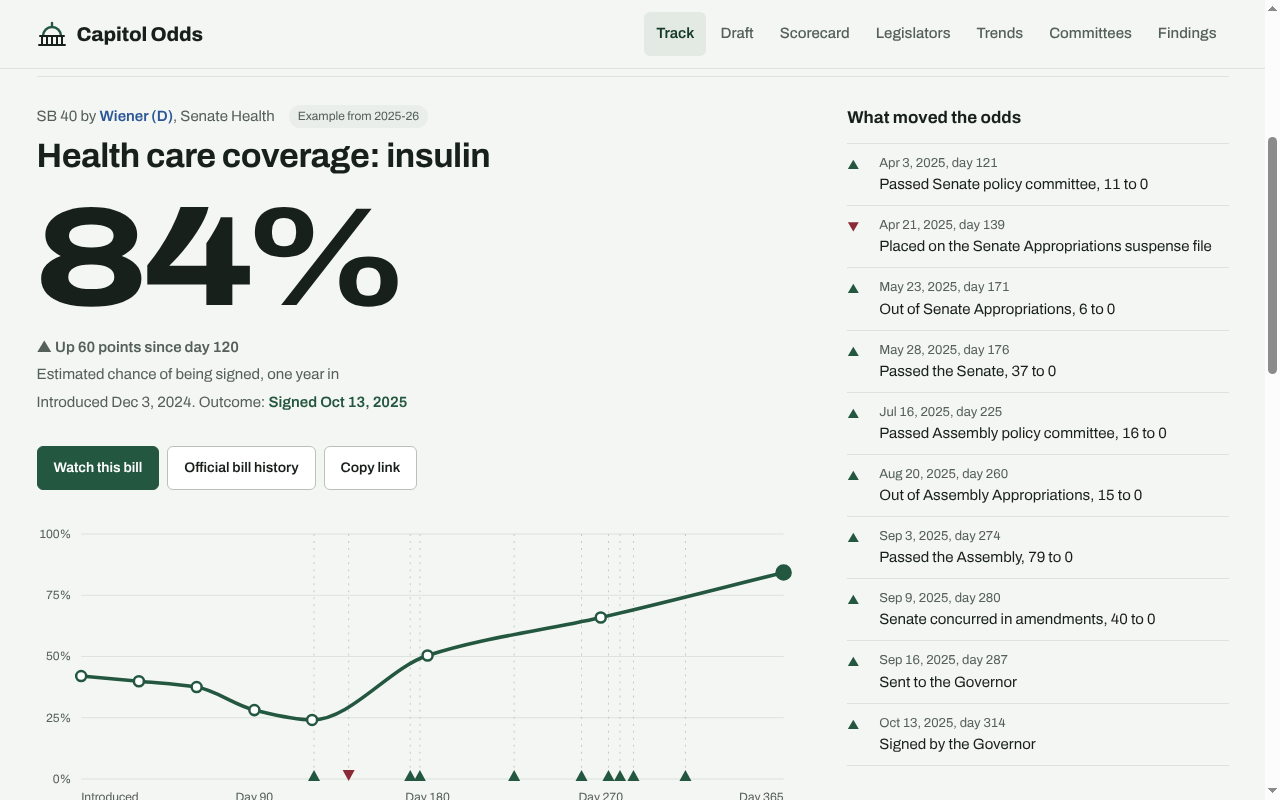
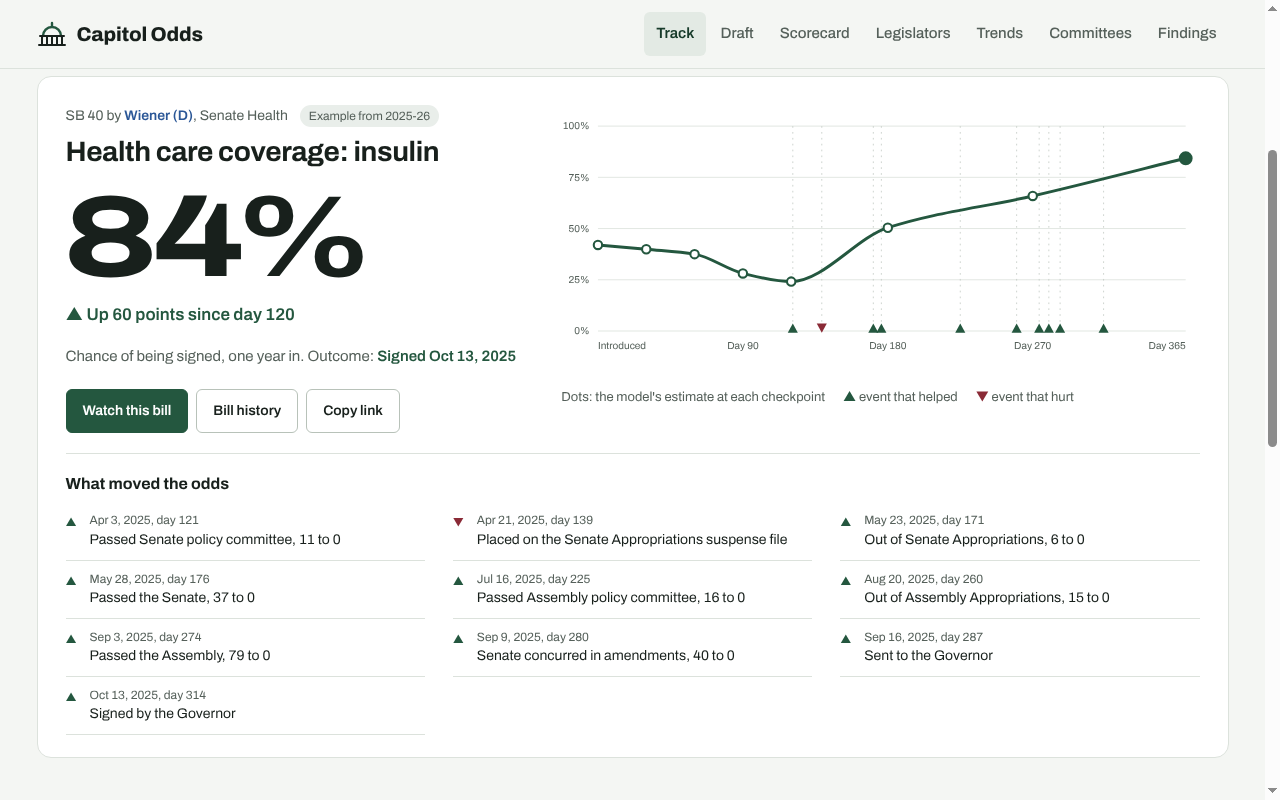
Streamline the home page
Search sits in a compact hero with the three model facts on one line. The featured bill is one
card: odds and actions beside the chart, and what moved the odds as a three-column grid under
both (five on a phone, with Show all). The watchlist drops its empty group row, the accuracy
strip is one compact card, and the drafting link moves up into the hero. On a phone the top
nav scrolls in one row. Asset tag bumped so browsers fetch the new stylesheet.

diff --git a/site/index.html b/site/index.html
@@ -9,7 +9,7 @@
 <link rel="preconnect" href="https://fonts.googleapis.com">
 <link rel="preconnect" href="https://fonts.gstatic.com" crossorigin>
 <link rel="stylesheet" href="https://fonts.googleapis.com/css2?family=Archivo:wdth,wght@62..125,100..900&display=swap">
-<link rel="stylesheet" href="common.css?v=2026-10-29b">
+<link rel="stylesheet" href="common.css?v=2026-10-29c">
 <style>
 /* Home page: tracking view (default) and drafting view */
 .odds{font-weight:800;font-stretch:125%;letter-spacing:-.03em;line-height:.88;color:var(--ink);font-variant-numeric:tabular-nums}
@@ -17,16 +17,15 @@
 .mv{font-weight:600;font-size:17px}
 
 /* Intro */
-.intro{display:flex;flex-wrap:wrap;gap:24px 56px;align-items:flex-end;padding:44px 0 32px}
-.intro h1{font-size:clamp(34px,5vw,54px);line-height:1.02;letter-spacing:-.03em;margin:0;max-width:14ch;font-stretch:108%}
-.intro .copy{flex:1 1 420px;min-width:0}
-.intro .copy p{margin:14px 0 0;color:var(--muted);font-size:18px;max-width:52ch}
-.facts{flex:1 1 380px;display:grid;grid-template-columns:repeat(3,minmax(0,1fr));gap:20px;margin:0;padding:0;list-style:none}
-.facts li{border-top:1px solid var(--line-strong);padding-top:12px;font-size:14px;color:var(--muted);line-height:1.45}
-.facts b{display:block;color:var(--ink);font-size:20px;white-space:nowrap;font-stretch:112%;letter-spacing:-.01em;margin-bottom:4px;font-weight:700}
-
+.hero{padding:40px 0 8px}
+.hero-top{display:flex;flex-wrap:wrap;align-items:flex-end;justify-content:space-between;gap:16px 32px}
+.hero h1{font-size:clamp(32px,4.2vw,50px);line-height:1.04;letter-spacing:-.03em;margin:0;font-stretch:106%}
+.hero-top p{margin:10px 0 0;color:var(--muted);font-size:17px;max-width:60ch}
+.facts{display:flex;flex-wrap:wrap;gap:6px 22px;margin:14px 0 0;padding:0;list-style:none;font-size:14px;color:var(--muted)}
+.facts b{color:var(--ink);font-weight:700}
+.facts .st{flex-basis:100%;color:var(--subtle);font-size:13px}
 /* Search */
-.search{position:relative;margin:8px 0 12px}
+.search{position:relative;margin:24px 0 0}
 .search .box{display:flex;align-items:center;gap:12px;background:var(--panel);border:1px solid var(--line-strong);border-radius:var(--r-md);padding:0 18px;min-height:60px}
 .search .box:focus-within{box-shadow:var(--focus)}
 .search input{flex:1;min-width:0;border:0;background:transparent;font-size:18px;padding:16px 0;min-height:58px}
@@ -42,19 +41,18 @@
 .results .au{font-size:13px;color:var(--muted);display:block}
 .results .pp{font-weight:700;font-stretch:115%;font-size:18px}
 .results .oc{font-size:13px;min-width:84px;text-align:right}
-.status{font-size:14px;color:var(--subtle);margin:0 0 28px}
 
 /* Featured bill */
-.featured{display:grid;grid-template-columns:minmax(0,8fr) minmax(0,4fr);gap:32px 48px;padding:28px 0 8px;border-top:1px solid var(--line)}
-.fhead{display:flex;flex-wrap:wrap;gap:8px 14px;align-items:center;font-size:15px;color:var(--muted)}
+.featured{margin-top:32px;background:var(--panel);border:1px solid var(--line);border-radius:var(--r-lg);padding:28px 28px 8px}
+.fgrid{display:grid;grid-template-columns:minmax(0,5fr) minmax(0,7fr);gap:24px 40px;align-items:start}
+.fhead{display:flex;flex-wrap:wrap;gap:6px 12px;align-items:center;font-size:14px;color:var(--muted)}
 .fhead .tag{margin:0}
-.featured h2{font-size:clamp(24px,3vw,34px);line-height:1.15;margin:8px 0 0;letter-spacing:-.015em;font-weight:700}
-.quote{display:flex;flex-wrap:wrap;align-items:flex-end;gap:12px 28px;margin-top:22px}
-.quote .odds{font-size:clamp(84px,13vw,140px)}
-.quote .sub{padding-bottom:10px}
-.quote .sub p{margin:4px 0 0;color:var(--muted);font-size:15px}
-.factions{display:flex;flex-wrap:wrap;gap:8px;margin-top:22px}
-.chart{position:relative;margin-top:26px}
+.featured h2{font-size:clamp(22px,2.4vw,28px);line-height:1.2;margin:8px 0 0;letter-spacing:-.015em;font-weight:700}
+.quote .odds{font-size:clamp(80px,9vw,124px);margin-top:18px}
+.quote .sub p{margin:6px 0 0;color:var(--muted);font-size:15px}
+.quote .mv{margin-top:14px}
+.factions{display:flex;flex-wrap:wrap;gap:8px;margin-top:20px}
+.chart{position:relative;margin-top:6px}
 .chart svg{display:block;width:100%;height:auto;overflow:visible}
 .chart .pt{cursor:pointer;outline:none}
 .chart .pt:focus-visible circle.ring{stroke:var(--ink);stroke-width:2.5}
@@ -63,23 +61,24 @@
 .tip{position:absolute;pointer-events:none;background:var(--ink);color:var(--bg);font-size:13px;line-height:1.35;padding:7px 10px;border-radius:6px;white-space:nowrap;transform:translate(-50%,calc(-100% - 12px));font-weight:500;z-index:5}
 .tip b{font-weight:700}
 .legend{display:flex;flex-wrap:wrap;gap:6px 18px;font-size:13px;color:var(--muted);margin-top:8px}
-.timeline h3,.panel-h{font-size:17px;margin:0 0 12px;font-weight:700}
-.timeline ol{list-style:none;margin:0;padding:0;position:relative}
-.timeline li{display:grid;grid-template-columns:22px minmax(0,1fr);gap:10px;padding:10px 0;border-top:1px solid var(--line);font-size:15px;line-height:1.4}
-.timeline li:last-child{border-bottom:1px solid var(--line)}
-.timeline .ar{font-size:12px;padding-top:3px}
-.timeline .dt{display:block;font-size:13px;color:var(--muted);margin-bottom:2px}
-.timeline .empty{color:var(--muted);font-size:15px}
+.timeline{margin-top:20px;border-top:1px solid var(--line);padding:18px 0 14px}
+.timeline h3{font-size:16px;margin:0 0 6px;font-weight:700}
+.timeline ol{list-style:none;margin:0;padding:0;display:grid;grid-template-columns:repeat(3,minmax(0,1fr));gap:0 28px}
+.timeline li{display:grid;grid-template-columns:16px minmax(0,1fr);gap:8px;padding:10px 0;border-bottom:1px solid var(--line);font-size:14px;line-height:1.35}
+.timeline .ar{font-size:11px;padding-top:3px}
+.timeline .dt{display:block;font-size:12px;color:var(--muted);margin-bottom:2px}
+.timeline .more-ev{display:none;margin-top:10px}
+.timeline .empty{color:var(--muted);font-size:14px;margin:4px 0 0}
 
 /* Watchlist */
-.block{margin-top:64px}
+.block{margin-top:48px}
 .block-h{display:flex;flex-wrap:wrap;align-items:baseline;justify-content:space-between;gap:8px 16px;margin-bottom:14px}
 .block-h h2{font-size:26px;margin:0;font-weight:700}
 .block-h p{margin:0;color:var(--muted);font-size:15px}
 .wl{position:relative;overflow-x:auto;background:var(--panel);border-radius:var(--r-lg)}
 .wl table{min-width:820px}
 .wl th{background:var(--panel);padding:14px 16px}
-.wl td{padding:14px 16px;vertical-align:middle}
+.wl td{padding:10px 16px;vertical-align:middle}
 .wl tr.grp td{font-size:13px;color:var(--muted);padding:18px 16px 8px;border-bottom:1px solid var(--line-strong);background:var(--panel)}
 .wl tr.grp:hover{background:none}
 .wl tr.sel{background:var(--raised)}
@@ -91,9 +90,12 @@
 .wl .rm:hover{color:var(--ink)}
 
 /* Accuracy */
-.acc{display:grid;grid-template-columns:minmax(0,4fr) minmax(0,7fr);gap:24px 56px;align-items:end}
-.acc p{color:var(--muted);font-size:15px;margin:10px 0 0;max-width:46ch}
-.accbars{display:grid;grid-template-columns:repeat(8,minmax(0,1fr));gap:8px;align-items:end;height:190px}
+.acc{display:grid;grid-template-columns:minmax(0,5fr) minmax(0,7fr);gap:24px 48px;align-items:end;background:var(--panel);border:1px solid var(--line);border-radius:var(--r-lg);padding:24px 28px}
+.acc h2{font-size:22px;margin:0;font-weight:700}
+.acc p{color:var(--muted);font-size:14px;margin:8px 0 0;max-width:52ch}
+.acc details.more{margin-top:12px;border:0;padding:0}
+.acc details.more summary{min-height:36px;font-size:14px}
+.accbars{display:grid;grid-template-columns:repeat(8,minmax(0,1fr));gap:6px;align-items:end;height:150px}
 .accbars div{display:flex;flex-direction:column;justify-content:flex-end;gap:6px;height:100%;text-align:center}
 .accbars b{font-size:15px;font-stretch:112%}
 .accbars i{display:block;border-radius:4px 4px 0 0;background:#B8C2B9}
@@ -205,17 +207,21 @@ details.more summary{cursor:pointer;color:var(--ink);font-weight:600;min-height:
 @media (max-width:640px){.pop{left:16px!important;right:16px;width:auto;top:auto!important;bottom:16px;max-height:70vh}.pop ul{max-height:50vh}}
 
 @media (max-width:960px){
-  .featured,.dgrid,.moves,.acc{grid-template-columns:minmax(0,1fr)}
+  .fgrid,.dgrid,.moves,.acc{grid-template-columns:minmax(0,1fr)}
+  .timeline ol{grid-template-columns:repeat(2,minmax(0,1fr))}
   .res{position:static}
 }
 @media (max-width:640px){
+  .featured{padding:20px 16px 4px}
+  .acc{padding:20px 16px}
+  .timeline ol{grid-template-columns:minmax(0,1fr)}
+  .timeline ol:not(.all) li:nth-child(n+6){display:none}
+  .timeline .more-ev{display:inline-flex}
   .sheet .row{grid-template-columns:minmax(0,1fr)}
   .pkb .ph{display:none}
   .sheet .lab{padding:14px 16px 0;font-size:14px}
   .sheet .val{padding:8px 16px 14px}
   .dgest{padding:16px}
-  .facts{grid-template-columns:1fr;gap:10px}
-  .intro{padding-top:28px}
   .results button{grid-template-columns:64px minmax(0,1fr) auto;padding:12px 14px}
   .results .oc{display:none}
   .chk{grid-template-columns:1fr}
@@ -231,48 +237,45 @@ details.more summary{cursor:pointer;color:var(--ink);font-weight:600;min-height:
 
 <!-- Track a bill: the home view -->
 <div class="view" id="track" hidden>
-  <div class="intro">
-    <div class="copy">
-      <h1>Know the odds before the vote.</h1>
-      <p>A statistical forecast of which California bills will become law, built for the people who write, track and influence legislation.</p>
+  <div class="hero">
+    <div class="hero-top">
+      <div>
+        <h1>Know the odds before the vote.</h1>
+        <p>Forecasts of which California bills become law, for the people who write, track and influence them.</p>
+      </div>
+      <button class="btn" id="m-draft" type="button" aria-selected="false">Drafting a bill? Estimate it</button>
+    </div>
+    <div class="search" role="search">
+      <label for="tq" class="sr">Search bills</label>
+      <div class="box">
+        <svg width="20" height="20" viewBox="0 0 20 20" aria-hidden="true"><circle cx="9" cy="9" r="6.5" fill="none" stroke="#55605A" stroke-width="2"></circle><path d="M14 14l4 4" stroke="#55605A" stroke-width="2" stroke-linecap="round"></path></svg>
+        <input id="tq" type="search" placeholder="Search by bill number, author or subject…" autocomplete="off" aria-controls="tres" aria-describedby="tnote">
+      </div>
+      <div id="tres" class="results" hidden></div>
     </div>
     <ul class="facts" aria-label="About the model">
-      <li><b id="f-bills">38,333 bills</b>in the training data, every legislator's bills since <span id="f-first">2007-08</span>.</li>
-      <li><b>Tested blind</b>on the <span id="f-test">2025-26</span> session, which the model never saw.</li>
-      <li><b id="f-auc">AUC 0.70–0.95</b>from introduction to one year in, as a bill's history builds.</li>
+      <li><b id="f-bills">38,333 bills</b> since <span id="f-first">2007-08</span></li>
+      <li><b>Tested blind</b> on <span id="f-test">2025-26</span></li>
+      <li><b id="f-auc">AUC 0.70–0.95</b> as a bill moves</li>
+      <li class="st" id="tnote">Loading bills…</li>
     </ul>
   </div>
-
-  <div class="search" role="search">
-    <label for="tq" class="sr">Search bills</label>
-    <div class="box">
-      <svg width="20" height="20" viewBox="0 0 20 20" aria-hidden="true"><circle cx="9" cy="9" r="6.5" fill="none" stroke="#55605A" stroke-width="2"></circle><path d="M14 14l4 4" stroke="#55605A" stroke-width="2" stroke-linecap="round"></path></svg>
-      <input id="tq" type="search" placeholder="Search by bill number, author or subject…" autocomplete="off" aria-controls="tres" aria-describedby="tnote">
-    </div>
-    <div id="tres" class="results" hidden></div>
-  </div>
-  <p class="status" id="tnote">Loading bills…</p>
 
   <div id="tbill" aria-live="polite"><p class="loading">Loading the featured bill…</p></div>
 
   <div class="block" id="watch">
-    <div class="block-h"><h2>Watchlist</h2><p>Select a bill to chart it. Your bills stay in this browser.</p></div>
+    <div class="block-h"><h2>Watchlist</h2><p id="wlhint">Select a bill to chart it.</p></div>
     <div class="wl" id="wl"><p class="loading" style="padding:18px">Loading…</p></div>
   </div>
 
-  <div class="block">
-    <div class="acc">
-      <div>
-        <h2 style="font-size:26px;margin:0">The odds sharpen as a bill moves</h2>
-        <p>AUC measures how often a signed bill ranks above an unsigned bill. 0.50 is equivalent to chance. Each checkpoint has its own model, trained on earlier sessions and tested on <span id="ttest"></span>.</p>
-        <p class="small">AUC ranks bills against each other. It is not the chance that any single forecast is right.</p>
-      </div>
-      <div id="tacc" class="accbars" role="img" aria-label="AUC by days after introduction"></div>
+  <div class="block acc">
+    <div>
+      <h2>The odds sharpen as a bill moves</h2>
+      <p>AUC: how often a signed bill ranks above one that failed (0.50 is chance). One model per checkpoint, trained on earlier sessions and tested on <span id="ttest"></span>. It ranks bills; it is not the chance any single forecast is right.</p>
+      <details class="more"><summary>Predicted against actual</summary><div id="taccT"></div></details>
     </div>
-    <details class="more"><summary>Predicted against actual, by checkpoint</summary><div id="taccT"></div></details>
+    <div id="tacc" class="accbars" role="img" aria-label="AUC by days after introduction"></div>
   </div>
-
-  <p style="margin-top:56px"><button class="btn" id="m-draft" type="button" aria-selected="false">Drafting a bill? Estimate it before introduction</button></p>
 </div>
 
 <!-- Draft a bill -->
@@ -366,7 +369,7 @@ details.more summary{cursor:pointer;color:var(--ink);font-weight:600;min-height:
 <footer>Not affiliated with any office or legislator. Not a forecast of any specific bill and not advice.<br>Source: California Legislative Information bulk export (leginfo). Model code, tests and methodology are in the repository.</footer>
 </div></main>
 <script>if(/[?&](sess|chamber|scope|method|budget|sort)=/.test(location.search))location.replace("scorecard.html"+location.search+location.hash);</script>
-<script src="common.js?v=2026-10-29b"></script>
+<script src="common.js?v=2026-10-29c"></script>
 <script src="insights.js"></script>
 <script src="data/model.js"></script>
 <script>
@@ -748,12 +751,12 @@ function initTrack() {
   const acc = T.accuracy, lab = label(T.session);
   $("ttest").textContent = lab; $("f-test").textContent = lab;
   if (acc.length) $("f-auc").textContent = `AUC ${acc[0].auc.toFixed(2)}–${acc[acc.length - 1].auc.toFixed(2)}`;
-  $("tacc").innerHTML = acc.map(a => `<div><b>${a.auc.toFixed(2)}</b><i class="${a.auc >= 0.8 ? "hi" : ""}" style="height:${Math.max(4, Math.round((a.auc - 0.5) * 260))}px"></i><span>${SHORT(a.days)}</span></div>`).join("");
+  $("tacc").innerHTML = acc.map(a => `<div><b>${a.auc.toFixed(2)}</b><i class="${a.auc >= 0.8 ? "hi" : ""}" style="height:${Math.max(4, Math.round((a.auc - 0.5) * 190))}px"></i><span>${SHORT(a.days)}</span></div>`).join("");
   $("tacc").setAttribute("aria-label", "AUC by time after introduction: " + acc.map(a => `${LBL(a.days).toLowerCase()} ${a.auc.toFixed(2)}`).join(", "));
   $("taccT").innerHTML = "<div class='scroll'><table><thead><tr><th>When</th><th class='n'>AUC</th><th class='n'>Predicted signed</th><th class='n'>Actually signed</th></tr></thead><tbody>" +
     acc.map(a => `<tr><td>${LBL(a.days)}</td><td class="n"><b>${a.auc.toFixed(2)}</b></td><td class="n">${pc(a.predicted_rate)}</td><td class="n">${pc(a.actual_rate)}</td></tr>`).join("") + "</tbody></table></div>";
   $("tnote").textContent = T.complete
-    ? `${TR.length.toLocaleString()} bills from ${lab}, a finished session. Odds are what the model would have said at the time, from models trained only on earlier sessions, shown next to how each bill ended.`
+    ? `${TR.length.toLocaleString()} bills from ${lab}, a finished session: each bill's odds are what the model said at the time, beside how it ended.`
     : `${TR.length.toLocaleString()} bills from ${lab}, odds as of ${T.asof}. They update with each weekly data refresh.`;
   const ex = EXAMPLES[T.session];
   if (!trackSel || !TRI[trackSel]) trackSel = ex && TRI[ex.featured] ? ex.featured : biggestMovers(1)[0];
@@ -817,7 +820,7 @@ function monotone(pts) {
   return d;
 }
 function chart(b, evs) {
-  const narrow = $("tbill").clientWidth < 600, ks = TRACKING.checkpoints, W = narrow ? 400 : 760, H = 320, L = 44, R = 16, Tp = 18, Bt = 262;
+  const narrow = (innerWidth > 960 ? $("tbill").clientWidth * 0.6 : $("tbill").clientWidth) < 520, ks = TRACKING.checkpoints, W = narrow ? 400 : 760, H = 320, L = 44, R = 16, Tp = 18, Bt = 262;
   const xmax = Math.max(365, ...evs.map(e => e.day));
   const X = d => L + (W - L - R) * Math.min(d, xmax) / xmax, Y = p => Bt - (Bt - Tp) * p;
   const pts = ks.map((k, j) => b.p[j] == null ? null : [X(k), Y(b.p[j]), k, b.p[j]]).filter(Boolean);
@@ -849,18 +852,21 @@ function showBill(id, quiet) {
   const ex = EXAMPLES[TRACKING.session], isEx = ex && (id === ex.featured || ex.list.includes(id));
   const watched = WATCH.includes(id);
   const tl = EV === null ? '<p class="empty">Loading what happened…</p>' : EV === false ? '<p class="empty">Could not load bill histories. Reload the page to try again.</p>' : !evs.length ? '<p class="empty">No committee votes, floor votes or Governor action recorded for this bill.</p>' :
-    `<ol>${evs.map(e => `<li><span class="ar ${e.good ? "up" : "down"}" aria-hidden="true">${e.good ? "▲" : "▼"}</span><span><span class="dt">${fmtDate(e.date)}, day ${e.day}</span>${esc(e.text)}<span class="sr">${e.good ? " (helped)" : " (hurt)"}</span></span></li>`).join("")}</ol>`;
-  $("tbill").innerHTML = `<div class="featured">
-    <div>
+    `<ol id="evl">${evs.map(e => `<li><span class="ar ${e.good ? "up" : "down"}" aria-hidden="true">${e.good ? "▲" : "▼"}</span><span><span class="dt">${fmtDate(e.date)}, day ${e.day}</span>${esc(e.text)}<span class="sr">${e.good ? " (helped)" : " (hurt)"}</span></span></li>`).join("")}</ol>${evs.length > 5 ? `<button class="btn sm more-ev" type="button" id="evmore">Show all ${evs.length}</button>` : ""}`;
+  $("tbill").innerHTML = `<div class="featured"><div class="fgrid">
+    <div class="quote">
       <div class="fhead"><span>${esc(spaced(b.bill))} by <span class="${b.party}">${esc(b.member)} (${esc(b.party)})</span>, ${esc(b.area)}</span>${isEx ? `<span class="tag">Example from ${label(TRACKING.session)}</span>` : ""}</div>
       <h2>${esc(b.title.replace(/\.$/, ""))}</h2>
-      <div class="quote"><div class="odds">${p == null ? "–" : pc(p)}</div><div class="sub">${mv}<p>Estimated chance of being signed${i >= 0 ? `, ${i === 0 ? "at introduction" : ks[i] === 365 ? "one year in" : `day ${ks[i]}`}` : ""}</p><p>Introduced ${fmtDate(addDays(b.intro, 0))}. Outcome: <span class="o-${b.outcome}">${esc(outTxt)}</span></p></div></div>
-      <div class="factions"><button class="btn primary" type="button" id="wbtn" aria-pressed="${watched}">${watched ? "Remove from watchlist" : "Watch this bill"}</button><a class="btn" href="${CL.leginfo(TRACKING.session, b.bill)}" target="_blank" rel="noopener">Official bill history</a><button class="btn" type="button" id="tshare">Copy link</button></div>
-      ${chart(b, evs)}
+      <div class="odds">${p == null ? "–" : pc(p)}</div>
+      ${mv}
+      <div class="sub"><p>Chance of being signed${i >= 0 ? `, ${i === 0 ? "at introduction" : ks[i] === 365 ? "one year in" : `day ${ks[i]}`}` : ""}. Outcome: <span class="o-${b.outcome}">${esc(outTxt)}</span></p></div>
+      <div class="factions"><button class="btn primary" type="button" id="wbtn" aria-pressed="${watched}">${watched ? "Remove from watchlist" : "Watch this bill"}</button><a class="btn" href="${CL.leginfo(TRACKING.session, b.bill)}" target="_blank" rel="noopener">Bill history</a><button class="btn" type="button" id="tshare">Copy link</button></div>
     </div>
-    <div class="timeline" id="tev"><h3>What moved the odds</h3>${tl}</div>
-  </div>`;
+    <div>${chart(b, evs)}</div>
+  </div>
+  <div class="timeline" id="tev"><h3>What moved the odds</h3>${tl}</div></div>`;
   $("wbtn").addEventListener("click", () => toggleWatch(id));
+  if ($("evmore")) $("evmore").addEventListener("click", () => { $("evl").classList.add("all"); $("evmore").remove(); });
   CL.shareButton($("tshare"));
   wireChart();
   document.querySelectorAll("#wl tr[data-b]").forEach(r => r.classList.toggle("sel", r.dataset.b === id));
@@ -896,13 +902,13 @@ function wrow(b, mine) {
     `<td>${mine ? `<button class="rm" type="button" data-rm="${esc(b.bill)}" aria-label="Remove ${esc(spaced(b.bill))} from watchlist">Remove</button>` : ""}</td></tr>`;
 }
 function renderWatch() {
+  $("wlhint").textContent = WATCH.length ? "Select a bill to chart it. Your bills stay in this browser." : `Examples from ${label(TRACKING.session)}. Use Watch this bill to add your own.`;
   const ex = EXAMPLES[TRACKING.session];
   const exIds = (ex ? ex.list : biggestMovers(5)).filter(x => TRI[x]);
   const mine = WATCH.filter(x => TRI[x]);
   $("wl").innerHTML = `<table><thead><tr><th scope="col">Bill</th><th scope="col">Title</th><th scope="col" class="n">At introduction</th><th scope="col">Trend</th><th scope="col" class="n">Latest odds</th><th scope="col">Outcome</th><th scope="col"><span class="sr">Actions</span></th></tr></thead><tbody>` +
-    `<tr class="grp"><td colspan="7">Your bills</td></tr>` +
-    (mine.length ? mine.map(x => wrow(TRI[x], true)).join("") : `<tr class="grp"><td colspan="7" style="color:var(--subtle);border:0">No bills yet. Open any bill and choose Watch this bill to keep it here.</td></tr>`) +
-    `<tr class="grp"><td colspan="7">${ex ? `Examples from ${label(TRACKING.session)}` : `Biggest movers in ${label(TRACKING.session)}`}</td></tr>` +
+    (mine.length ? `<tr class="grp"><td colspan="7">Your bills</td></tr>` + mine.map(x => wrow(TRI[x], true)).join("") : "") +
+    (mine.length || !ex ? `<tr class="grp"><td colspan="7">${ex ? `Examples from ${label(TRACKING.session)}` : `Biggest movers in ${label(TRACKING.session)}`}</td></tr>` : "") +
     exIds.map(x => wrow(TRI[x], false)).join("") + "</tbody></table>";
 }
 $("wl").addEventListener("click", e => {

diff --git a/site/legislator.html b/site/legislator.html
@@ -9,7 +9,7 @@
 <link rel="preconnect" href="https://fonts.googleapis.com">
 <link rel="preconnect" href="https://fonts.gstatic.com" crossorigin>
 <link rel="stylesheet" href="https://fonts.googleapis.com/css2?family=Archivo:wdth,wght@62..125,100..900&display=swap">
-<link rel="stylesheet" href="common.css?v=2026-10-29b">
+<link rel="stylesheet" href="common.css?v=2026-10-29c">
 <style>
 .scroll{overflow:auto}
 th,td{text-align:left;vertical-align:top}
@@ -26,7 +26,7 @@ tbody tr.link{cursor:pointer}tbody tr.link:hover{background:var(--hi)}
 </div></header>
 <main><div class="wrap" id="main"><p class="loading">Loading…</p></div>
 <div class="wrap"><footer>Not affiliated with any office or legislator. Not an endorsement of any legislator.<br>Source: California Legislative Information bulk export (leginfo): bills, outcomes and committee roll calls. Methodology is in the repository.</footer></div></main>
-<script src="common.js?v=2026-10-29b"></script>
+<script src="common.js?v=2026-10-29c"></script>
 <script src="data/sessions.js"></script>
 <script src="data/people_index.js"></script>
 <script>

diff --git a/site/committees.html b/site/committees.html
@@ -9,7 +9,7 @@
 <link rel="preconnect" href="https://fonts.googleapis.com">
 <link rel="preconnect" href="https://fonts.gstatic.com" crossorigin>
 <link rel="stylesheet" href="https://fonts.googleapis.com/css2?family=Archivo:wdth,wght@62..125,100..900&display=swap">
-<link rel="stylesheet" href="common.css?v=2026-10-29b">
+<link rel="stylesheet" href="common.css?v=2026-10-29c">
 <style>
 .scroll{overflow:auto}
 th,td{text-align:right;vertical-align:top}
@@ -32,7 +32,7 @@ th:nth-child(-n+4),td:nth-child(-n+4){text-align:left}
 <div id="out"><p class="loading">Loading…</p></div>
 <footer>Not affiliated with any office or legislator.<br>Source: California Legislative Information bulk export (leginfo), committee roll calls (BILL_DETAIL_VOTE_TBL). Roster checks use Internet Archive copies of each committee's members page; see data/processed/committee_roster_check.csv in the repository.</footer>
 </div></main>
-<script src="common.js?v=2026-10-29b"></script>
+<script src="common.js?v=2026-10-29c"></script>
 <script src="data/committees_index.js"></script>
 <script>
 CL.nav("committees.html");

diff --git a/site/trends.html b/site/trends.html
@@ -9,7 +9,7 @@
 <link rel="preconnect" href="https://fonts.googleapis.com">
 <link rel="preconnect" href="https://fonts.gstatic.com" crossorigin>
 <link rel="stylesheet" href="https://fonts.googleapis.com/css2?family=Archivo:wdth,wght@62..125,100..900&display=swap">
-<link rel="stylesheet" href="common.css?v=2026-10-29b">
+<link rel="stylesheet" href="common.css?v=2026-10-29c">
 <style>
 .bars{display:grid;grid-template-columns:minmax(120px,300px) 1fr 64px;gap:6px 10px;align-items:center;font-size:14px}
 .bars .lbl{overflow:hidden;text-overflow:ellipsis;white-space:nowrap}
@@ -45,7 +45,7 @@ th:first-child,td:first-child{text-align:left}
 <div id="out"></div>
 <footer>Not affiliated with any office or legislator.<br>Source: California Legislative Information bulk export (leginfo), including the Governor's veto messages. Pipeline, tests and methodology are in the repository.</footer>
 </div></main>
-<script src="common.js?v=2026-10-29b"></script>
+<script src="common.js?v=2026-10-29c"></script>
 <script src="insights.js"></script>
 <script>
 CL.nav("trends.html");

diff --git a/site/findings.html b/site/findings.html
@@ -9,7 +9,7 @@
 <link rel="preconnect" href="https://fonts.googleapis.com">
 <link rel="preconnect" href="https://fonts.gstatic.com" crossorigin>
 <link rel="stylesheet" href="https://fonts.googleapis.com/css2?family=Archivo:wdth,wght@62..125,100..900&display=swap">
-<link rel="stylesheet" href="common.css?v=2026-10-29b">
+<link rel="stylesheet" href="common.css?v=2026-10-29c">
 <style>
 main .wrap{max-width:820px}
 article p{margin:8px 0}
@@ -34,7 +34,7 @@ article p{margin:6px 0}
 <div id="out"></div>
 <footer>Not affiliated with any office or legislator.<br>Source: California Legislative Information bulk export (leginfo). Pipeline, tests and methodology are in the repository.</footer>
 </div></main>
-<script src="common.js?v=2026-10-29b"></script>
+<script src="common.js?v=2026-10-29c"></script>
 <script src="insights.js"></script>
 <script>
 CL.nav("findings.html");

diff --git a/site/scorecard.html b/site/scorecard.html
@@ -9,7 +9,7 @@
 <link rel="preconnect" href="https://fonts.googleapis.com">
 <link rel="preconnect" href="https://fonts.gstatic.com" crossorigin>
 <link rel="stylesheet" href="https://fonts.googleapis.com/css2?family=Archivo:wdth,wght@62..125,100..900&display=swap">
-<link rel="stylesheet" href="common.css?v=2026-10-29b">
+<link rel="stylesheet" href="common.css?v=2026-10-29c">
 <style>
 th{position:sticky;top:0;cursor:pointer;white-space:nowrap}
 th[aria-sort]{color:var(--ink)}
@@ -45,7 +45,7 @@ dialog table td:nth-child(n){text-align:left;white-space:normal}
 </div></main>
 <dialog id="dlg"><div id="dbody"></div><form method="dialog"><button>Close</button></form></dialog>
 <script src="data/sessions.js"></script>
-<script src="common.js?v=2026-10-29b"></script>
+<script src="common.js?v=2026-10-29c"></script>
 <script>
 CL.nav("scorecard.html");
 const {esc} = CL;

diff --git a/site/common.css b/site/common.css
@@ -107,7 +107,9 @@ dialog::backdrop{background:rgba(24,32,28,.45)}
   body{font-size:15px}
   .wrap,body>header .wrap,.topbar-in{padding-left:16px;padding-right:16px}
   .topbar{position:static}
-  .topnav{margin-left:0;width:100%}
+  .topnav{margin-left:0;width:calc(100% + 32px);margin-right:-16px;flex-wrap:nowrap;overflow-x:auto;scrollbar-width:none;padding-right:16px}
+  .topnav::-webkit-scrollbar{display:none}
+  .topnav a{flex:none}
   .topnav a{padding:10px 9px;font-size:14px}
   body>header{padding-top:28px}
   h1{font-size:30px}
